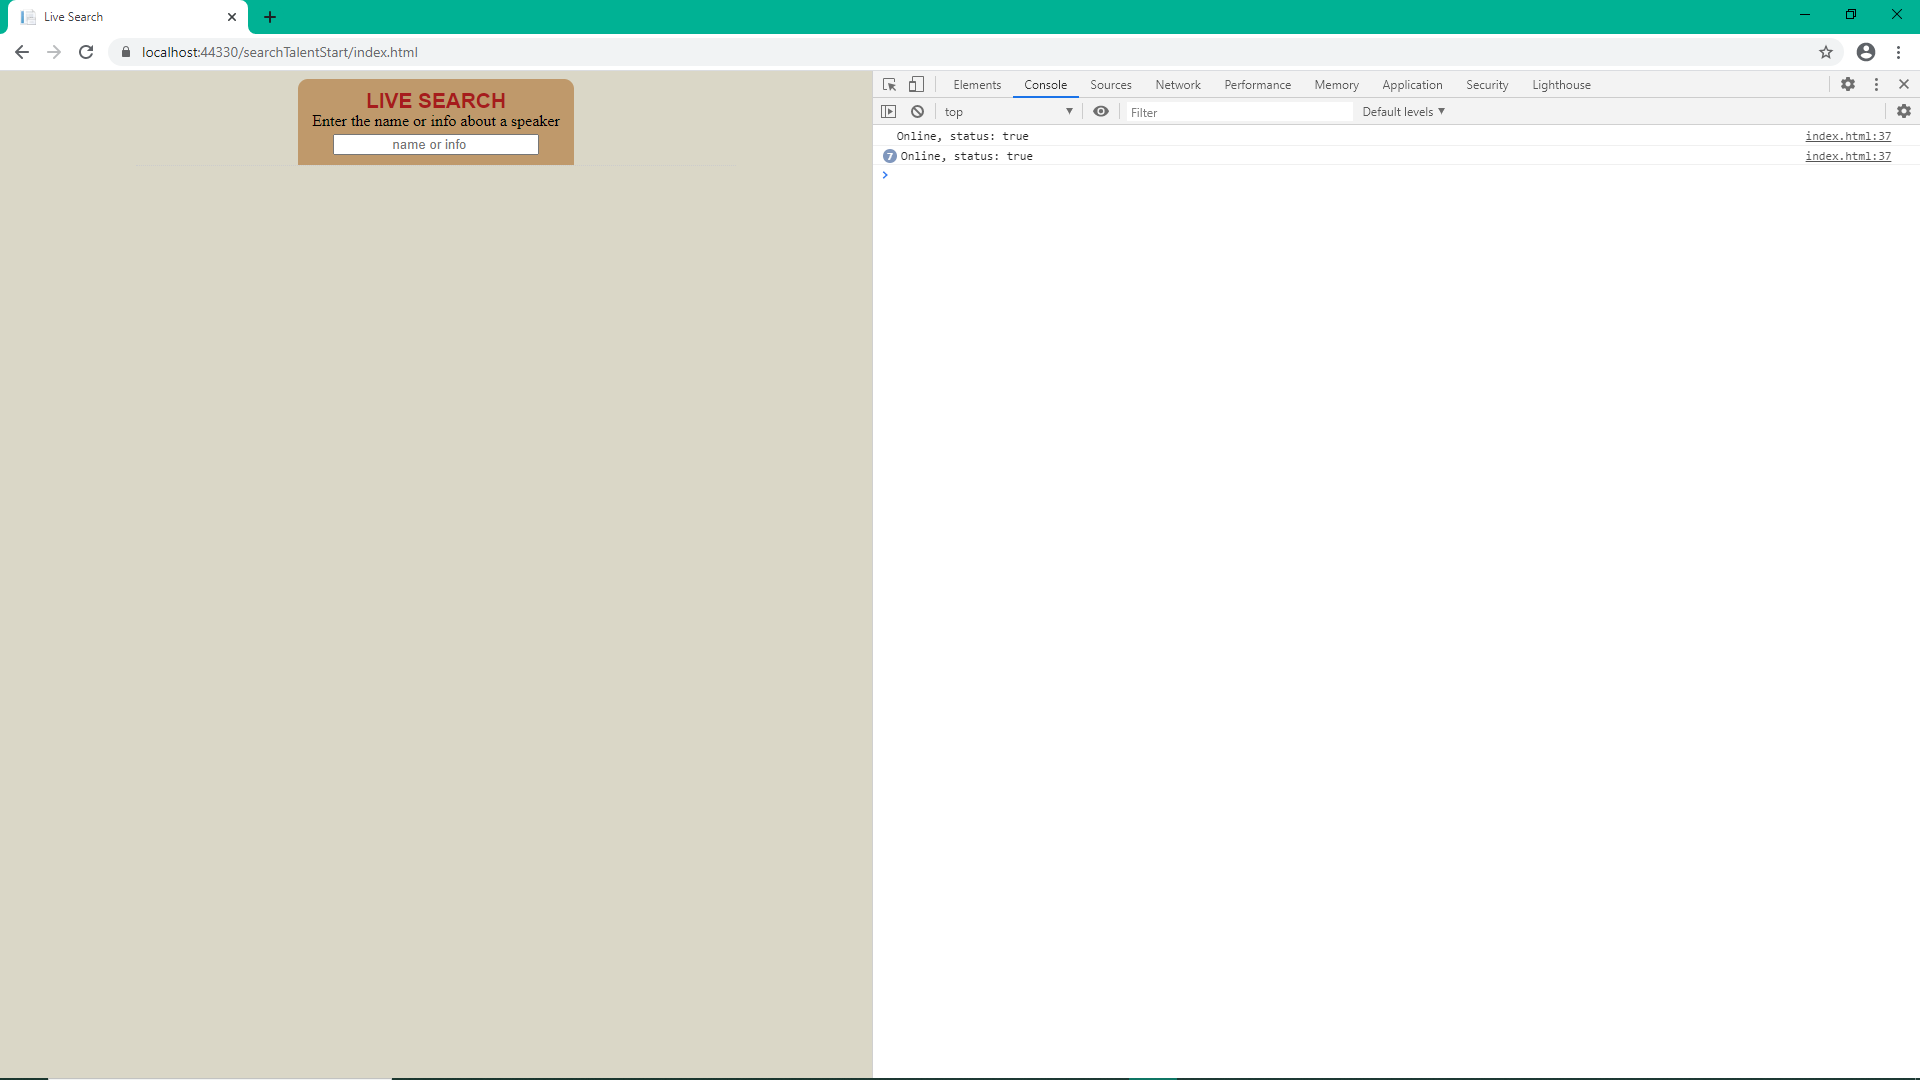
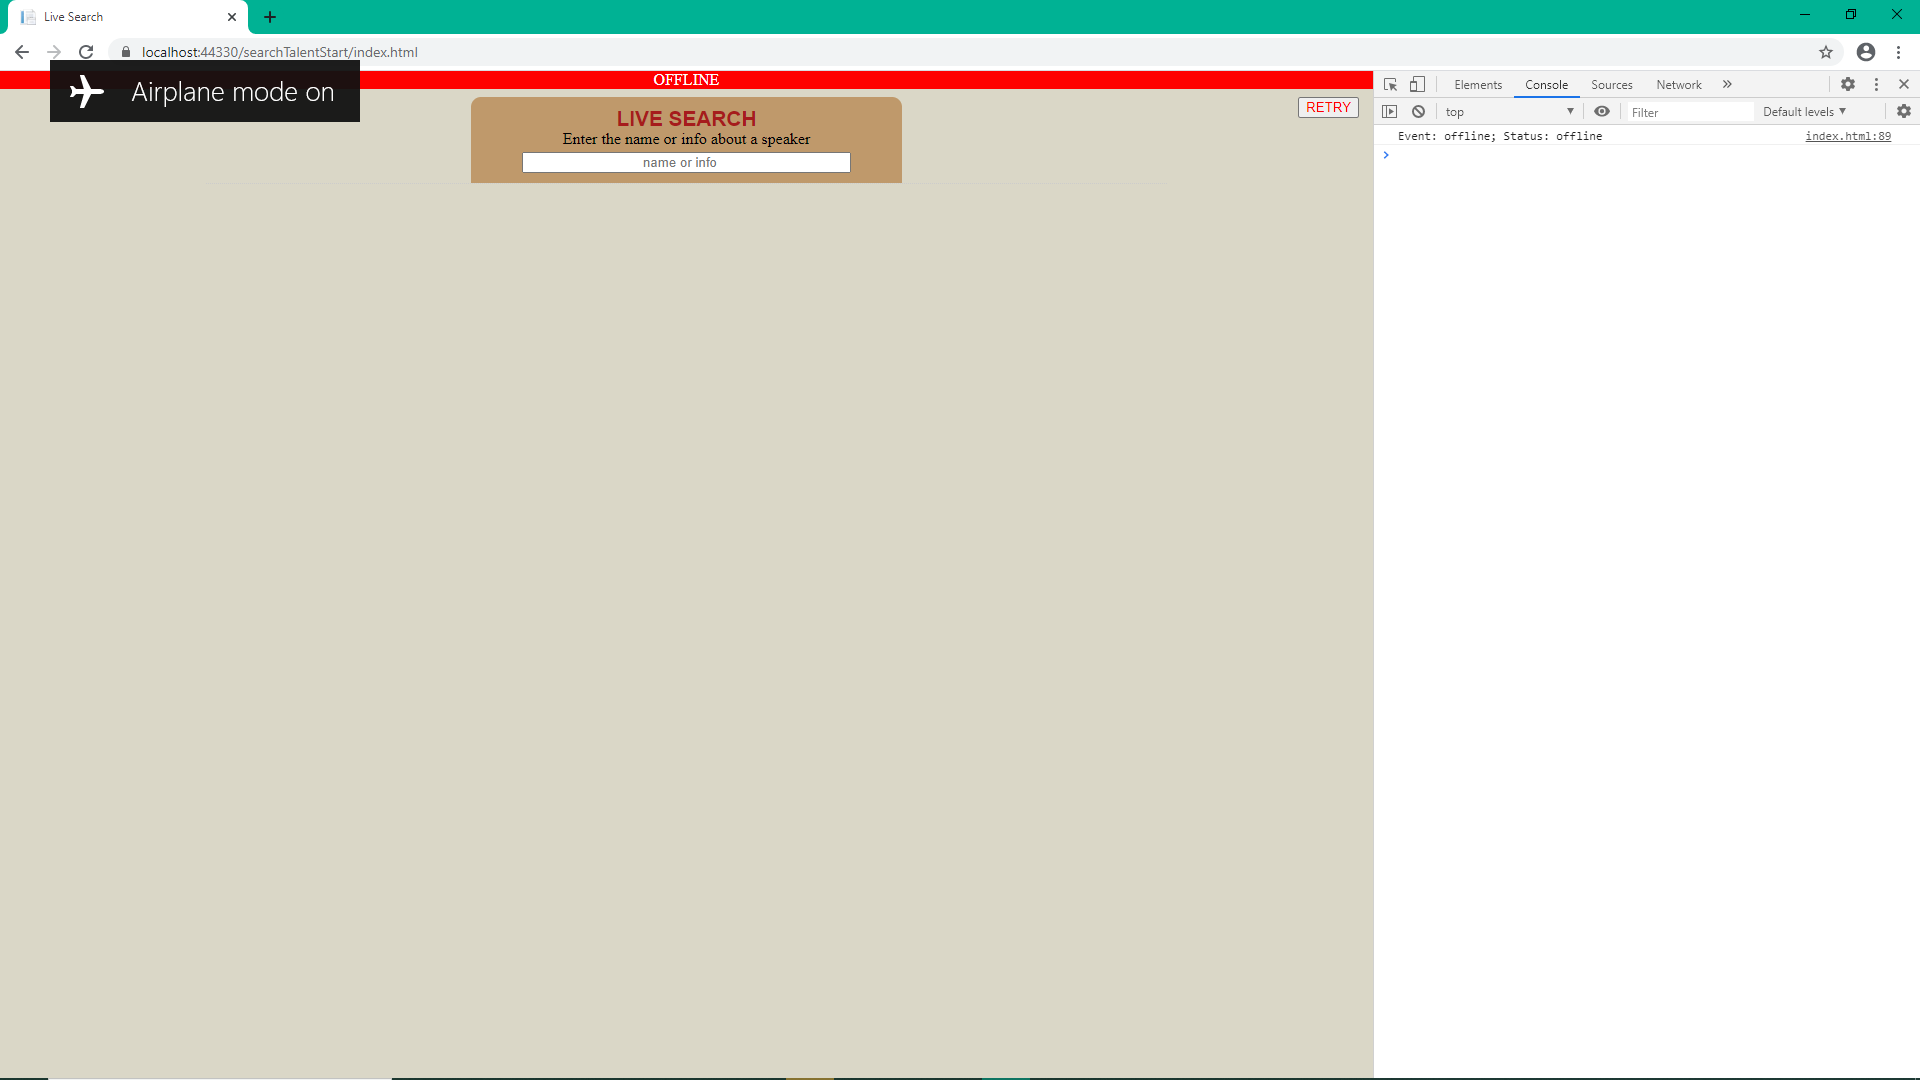
network

Changed region(s): [[0.0, 0.0306, 0.8438, 1.0], [0.9375, 0.1222, 0.9688, 0.1528]]

diff --git a/Task4/searchTalentStart/index.html b/Task4/searchTalentStart/index.html
@@ -6,6 +6,7 @@
 	<link rel="stylesheet" href="mystyle.css" />
 </head>
 <body>
+    <div id="status"></div>
     <button id="retryBtn" onclick="retryConnect()">RETRY</button>
     <div id="searcharea">
         <label for="search">live search</label>
@@ -19,10 +20,30 @@
 </html>
 
 <style>
+    body {
+        padding: 0;
+        margin: 0;
+    }
     #retryBtn {
         position: absolute;
         right: 1%;
         color: red;
+        visibility: hidden;
+    }
+    #status {
+        position: relative;
+        width: 100%;
+        color: #FFF;
+        text-align: center;
+        margin-bottom: .5rem;
+    }
+
+    .online {
+        background: green;
+    }
+
+    .offline {
+        background: red;
     }
 </style>
 
@@ -31,28 +52,52 @@
     // https://stackoverflow.com/questions/189430/detect-the-internet-connection-is-offline
     // https://www.w3schools.com/howto/howto_js_offline_detection.asp
     
-    function checkNetwork() {
-        var status = navigator.onLine;
-        if (status) {
-            console.log("Online, status: " + status);
-            document.getElementById("retryBtn").style.visibility = "hidden";
-        } else {
-            console.log("Offline, status: " + status);
-            alert('Please check your network connectivity!');
-            document.getElementById("retryBtn").style.visibility = "visible";
+    //function checkNetwork() {
+    //    var status = navigator.onLine;
+    //    if (status) {
+    //        console.log("Online, status: " + status);
+    //        document.getElementById("retryBtn").style.visibility = "hidden";
+    //    } else {
+    //        console.log("Offline, status: " + status);
+    //        alert('Please check your network connectivity!');
+    //        document.getElementById("retryBtn").style.visibility = "visible";
 
 
-        }
+    //    }
 
-        setTimeout(checkNetwork, 1000);
-    }
+    //    setTimeout(checkNetwork, 1000);
+    //}
 
-    checkNetwork();
+    //checkNetwork();
 
     // Retry button
-
     function retryConnect() {
         window.location.reload(true);
     }
+
+    window.addEventListener('load', function () {
+        var status = document.getElementById("status");
+
+        function updateOnlineStatus(event) {
+            var condition = navigator.onLine ? "online" : "offline";
+
+            // might need to remove
+            status.className = condition;
+            status.innerHTML = condition.toUpperCase();
+
+            //log.insertAdjacentHTML("beforeend", "Event: " + event.type + "; Status: " + condition);
+            console.log("Event: " + event.type + "; Status: " + condition);
+
+            if (condition == "offline") {
+                document.getElementById("retryBtn").style.visibility = "visible";
+            } else {
+                document.getElementById("retryBtn").style.visibility = "hidden";
+
+            }
+        }
+
+        window.addEventListener('online', updateOnlineStatus);
+        window.addEventListener('offline', updateOnlineStatus);
+    });
     
 </script>
